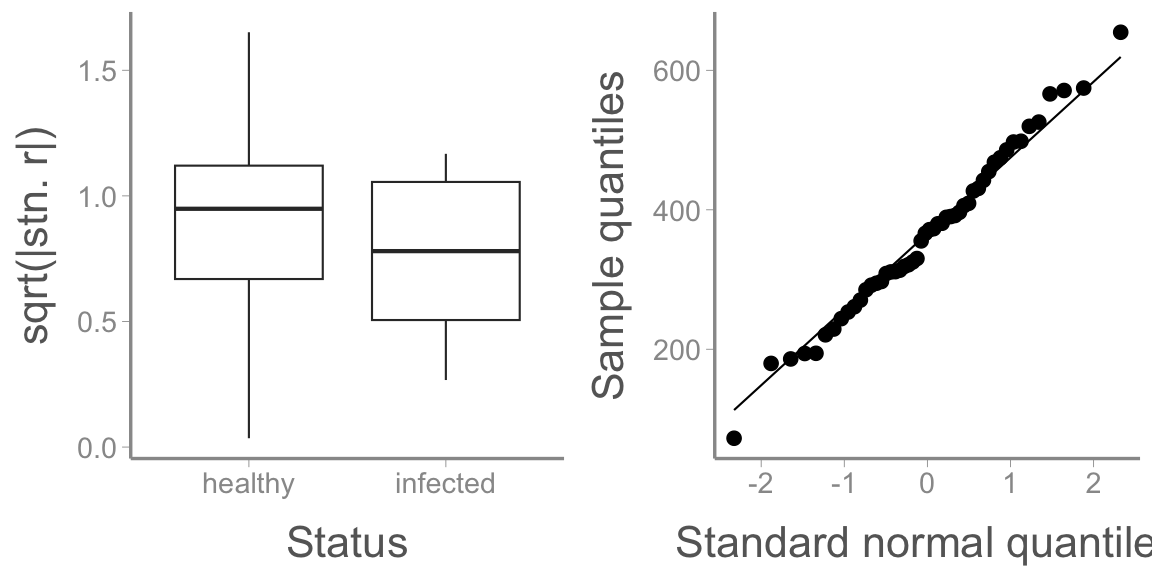
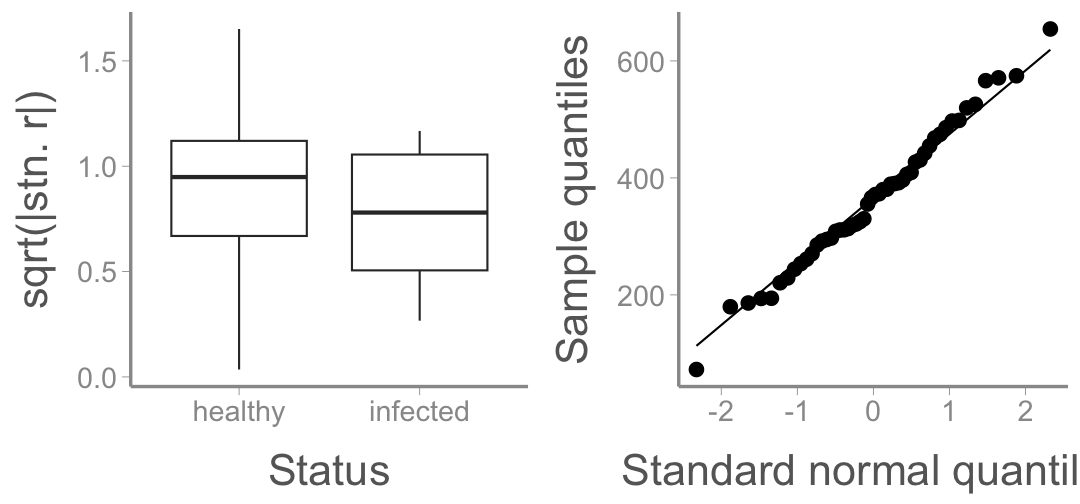
fix typos

diff --git a/docs/articles/lectures/11_assumptions/11_assumptions.html b/docs/articles/lectures/11_assumptions/11_assumptions.html
@@ -211,7 +211,7 @@ fm2 &lt;- lm(growth ~ status, data = tunadata)
 ```
 ]
 
-&lt;img src="11_assumptions_files/figure-html/unnamed-chunk-11-1.png" width="576" style="display: block; margin: auto;" /&gt;
+&lt;img src="11_assumptions_files/figure-html/unnamed-chunk-11-1.png" width="540" style="display: block; margin: auto;" /&gt;
 
 ---
 # null hypothesis testing
@@ -352,7 +352,7 @@ However, linear models make no assumptions about correlations between predictor 
 ---
 # example
 
-We are interested in the factors that govern the evolution of body size of ? and hypothesize that body length will increase with latitude and decrease temperature. Using museum collections, we have body length measurements from 80 individuals collected at sites between 40 and 50 degrees latitude. We also have long-term temperature data from each collection location. 
+We are interested in the factors that govern the evolution of body size of our study species and hypothesize that body length will increase with latitude and decrease temperature. Using museum collections, we have body length measurements from 80 individuals collected at sites between 40 and 50 degrees latitude. We also have long-term temperature data from each collection location. 
 
 ---
 # example
@@ -553,7 +553,7 @@ In general, do not automatically exclude correlated predictors just because they
 
 &lt;br/&gt;
 
-### **Reading**: [Fieberg chp. 1.5](https://statistics4ecologists-v1.netlify.app/linreg#evaluating-assumptions)
+### **Reading**: Tredennick et al. 2021 (pdf will be posted on eLC for next week's paper discussion)
 
     </textarea>
 <style data-target="print-only">@media screen {.remark-slide-container{display:block;}.remark-slide-scaler{box-shadow:none;}}</style>

diff --git a/docs/articles/lectures/10_interactions/10_interactions.html b/docs/articles/lectures/10_interactions/10_interactions.html
@@ -325,7 +325,7 @@ Food = 0, predators absent:
 
 Food = 0, predators present:
 
-`$$E[voles] = \color{#D47500}{13.5} ^* 1 + \color{#D47500}{18.0}^*0 + \color{#D47500}{28.5}^*0 + \color{#D47500}{-2.5}^*1+\color{#D47500}{-8.25}^*0 + \color{#D47500}{-22.5}^*0=11.5$$`
+`$$E[voles] = \color{#D47500}{13.5} ^* 1 + \color{#D47500}{18.0}^*0 + \color{#D47500}{28.5}^*0 + \color{#D47500}{-2.5}^*1+\color{#D47500}{-8.25}^*0 + \color{#D47500}{-22.5}^*0=11.0$$`
 --
 
 Food = 1, predators absent:
@@ -352,7 +352,7 @@ This design is called a factorial design.
 
 --
 
-- Because there are 2 levels of predation and 4 levels of food supplementation, this is a `\(\large 2 \times 4\)` factorial design  
+- Because there are 2 levels of predation and 3 levels of food supplementation, this is a `\(\large 2 \times 3\)` factorial design  
 
 --
 
